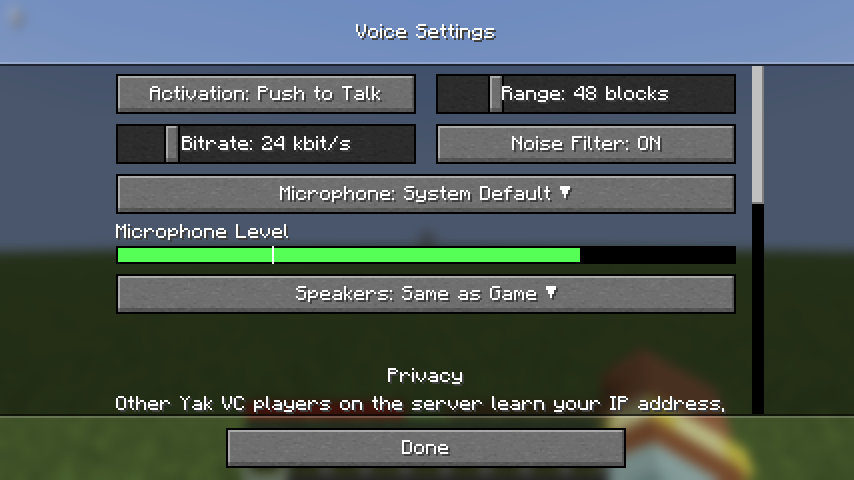
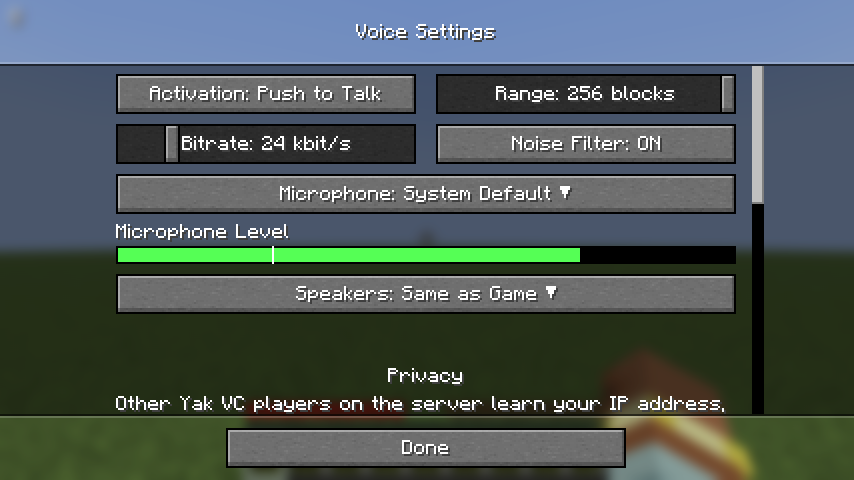
Default to a steeper fade over a 256-block range
The maintainer tuned this by ear in game: with a 0.6 rolloff over 48
blocks distance was barely audible until the very edge. A rolloff of 3
over 256 blocks falls off clearly while voices still carry far.

Changed region(s): [[0.548, 0.1562, 0.7916, 0.25], [0.822, 0.1562, 0.8829, 0.25]]

diff --git a/crates/yakvc-testkit/tests/m3.rs b/crates/yakvc-testkit/tests/m3.rs
@@ -140,13 +140,13 @@ async fn gain_and_pan_follow_moves() {
         "ahead: {near_l} vs {near_r}"
     );
 
-    // At 30 blocks the gain is about 1 - 26/44 = 0.41.
+    // At 30 blocks the gain is about (226/252)^3 = 0.72.
     alice.move_to(at(0.0, 30.0));
     sleep(SETTLE).await;
     let (far_l, _) = levels(&listen(&bob, Duration::from_secs(1)).await);
     assert!(far_l > 0.0, "still audible at 30 blocks");
     assert!(
-        (0.25..0.6).contains(&(far_l / near_l)),
+        (0.55..0.9).contains(&(far_l / near_l)),
         "gain at 30 blocks: {}",
         far_l / near_l
     );
@@ -282,7 +282,7 @@ async fn the_shorter_voice_range_wins() {
         .config(|c| c.voice_range = 20.0)
         .start()
         .await;
-    // bob keeps the default 48-block range.
+    // bob keeps the default 256-block range.
     let mut bob = net.client().name("bob").tone(660.0).start().await;
     alice.move_to(at(0.0, 0.0));
     bob.move_to(at(18.0, 0.0));
@@ -373,7 +373,7 @@ async fn voice_stops_at_range_and_without_a_tracked_entity() {
     connect(&mut alice, &mut bob, PeerState::Direct).await;
     alice.talk(true);
 
-    // Inside the default 48-block range, quiet but audible.
+    // Inside the default 256-block range, quiet but audible.
     sleep(SETTLE).await;
     assert!(!is_silent(&listen(&bob, Duration::from_secs(1)).await));
 

diff --git a/mod/src/main/java/io/github/desocketed/yakvc/config/ClientConfig.java b/mod/src/main/java/io/github/desocketed/yakvc/config/ClientConfig.java
@@ -62,7 +62,7 @@ public record ClientConfig(String toml) {
 
 	/** Blocks; the engine's default when unset. */
 	public double voiceRange() {
-		return number(value("", "voice_range"), 48);
+		return number(value("", "voice_range"), 256);
 	}
 
 	/** A number from the {@code [acoustics]} section, or {@code fallback} when unset. */
@@ -240,7 +240,7 @@ public record ClientConfig(String toml) {
 			# [rendezvous] table apply on the next game start, everything else at once.
 
 			# Voice range in blocks (1 to 256). Between two players the shorter range applies.
-			voice_range = 48.0
+			voice_range = 256.0
 
 			# Never use direct connections: all voice goes through the relay, so peers don't learn your IP address.
 			relay_only = false

diff --git a/mod/src/main/java/io/github/desocketed/yakvc/ui/SoundTuningScreen.java b/mod/src/main/java/io/github/desocketed/yakvc/ui/SoundTuningScreen.java
@@ -42,7 +42,7 @@ public final class SoundTuningScreen extends OptionsSubScreen {
 		SoundTuning mod = SoundTuning.DEFAULT;
 		// The engine's keys fall back to its own defaults (AcousticsConfig); the mod's to SoundTuning's.
 		slider("full_volume_distance", 0, 32, 1, 4, SoundTuningScreen::blocks);
-		slider("distance_rolloff", 10, 300, 0.01, 0.6, value -> label("times", "%.2f", value));
+		slider("distance_rolloff", 10, 400, 0.01, 3, value -> label("times", "%.2f", value));
 		slider("occlusion_attenuation", 0, 100, 0.01, 0.75, SoundTuningScreen::percent);
 		slider("muffled_cutoff_hz", 2, 80, 50, 600, value -> label("hertz", "%.0f", value));
 		slider("path_bend", 0, 100, 0.01, mod.pathBend(), SoundTuningScreen::percent);

diff --git a/crates/yakvc-client/src/config.rs b/crates/yakvc-client/src/config.rs
@@ -108,7 +108,7 @@ impl Default for AcousticsConfig {
     fn default() -> Self {
         AcousticsConfig {
             full_volume_distance: 4.0,
-            distance_rolloff: 0.6,
+            distance_rolloff: 3.0,
             occlusion_attenuation: 0.75,
             muffled_cutoff_hz: 600.0,
             reverb_level: 0.85,
@@ -264,7 +264,7 @@ impl Default for Config {
             dev_mode: false,
             verified_only: false,
             relay_only: false,
-            voice_range: 48.0,
+            voice_range: 256.0,
             friends_only: None,
             invites: InvitesFrom::Everyone,
             audio: AudioConfig::default(),

diff --git a/crates/yakvc-client/src/voice/rules.rs b/crates/yakvc-client/src/voice/rules.rs
@@ -499,14 +499,14 @@ mod tests {
         assert_eq!(gain(48.0), Some(0.0));
         assert_eq!(gain(48.1), None);
 
-        // A gentler rolloff keeps distant voices louder.
-        let gentle = spatial(
+        // The default, steeper rolloff drops distant voices sooner.
+        let steep = spatial(
             &listener(0.0),
             at(0.0, 40.0),
             48.0,
             &AcousticsConfig::default(),
         );
-        assert!(gentle.unwrap().gain > gain(40.0).unwrap() * 1.5);
+        assert!(steep.unwrap().gain < gain(40.0).unwrap() * 0.5);
     }
 
     #[test]

diff --git a/crates/yakvc-testkit/tests/voice_sink.rs b/crates/yakvc-testkit/tests/voice_sink.rs
@@ -158,7 +158,7 @@ async fn a_sink_gets_nearby_voice_instead_of_the_speakers() {
     let got = voice_from(&recorder, alice.uuid()).await;
     assert_eq!(got.samples, 960);
     assert!(got.positioned && !got.group, "{got:?}");
-    assert_eq!(got.range, 48.0);
+    assert_eq!(got.range, 256.0);
     assert_eq!(got.volume, 1.0);
     // Nothing in the way: heard from where alice stands, as the speakers would,
     // once bob's world has her there (her first frames can beat her move).

diff --git a/mod/src/test/java/io/github/desocketed/yakvc/config/ClientConfigTest.java b/mod/src/test/java/io/github/desocketed/yakvc/config/ClientConfigTest.java
@@ -55,7 +55,7 @@ class ClientConfigTest {
 		assertTrue(config.muteBlockedPlayers(), "keys in tables are not top-level");
 		assertEquals("Mic \"USB\" # 2", config.inputDevice());
 		assertEquals("C:\\Speakers", config.outputDevice());
-		assertEquals(48, config.voiceRange(), "the engine's default when unset");
+		assertEquals(256, config.voiceRange(), "the engine's default when unset");
 	}
 
 	@Test

diff --git a/docs/DESIGN.md b/docs/DESIGN.md
@@ -255,7 +255,7 @@ Voice is 48 kHz mono Opus in 20 ms frames, sent as unreliable QUIC datagrams on 
 | Sample rate / channels | 48 kHz, mono capture; stereo output |
 | Frame | 20 ms (960 samples) |
 | Codec | Opus, `VOIP` application, 24 kbps (16–64), in-band FEC on, DTX on |
-| Voice range | 48 blocks; full volume within 4 blocks. Per player; between two players the shorter range applies |
+| Voice range | 256 blocks (the most allowed); full volume within 4 blocks. Per player; between two players the shorter range applies |
 | Jitter buffer | adaptive, target 40 ms (a floor), bounds 20–200 ms. Delay is the 95th-percentile jitter over the last 100 packets plus 20 ms; it grows at once and shrinks only between talk spurts. Clock drift is corrected by stretching or skipping one frame |
 | Activation | push-to-talk (default) or VAD with 300 ms hangover |
 
@@ -270,7 +270,7 @@ Voice is 48 kHz mono Opus in 20 ms frames, sent as unreliable QUIC datagrams on 
 
 1. Datagrams from unverified connections are dropped. Verified ones go into a per-peer jitter buffer. Playout is timed by `ts`, which advances 960 per captured frame; `seq` advances only per packet sent, so a `seq` gap means loss and a `ts`-only gap means DTX silence.
 2. A mixer thread pulls one frame per peer every 20 ms: decode, use Opus FEC if the next packet is present, else PLC, and reset the stream after `end_of_talk`. A peer counts as talking (the `Talking` event, for the indicators) only while frames decoding above −70 dBFS play, with a 200 ms hangover. Quieter frames still play but don't count: while push-to-talk is held over silence, DTX sends a comfort-noise packet about every 400 ms, and each would otherwise flash the indicator. Comfort noise decodes below −85 dBFS at every bitrate and speech near −18 dBFS; packet size can't tell them apart, because at 16 kbps comfort-noise packets (14–18 B) overlap quiet speech (21 B and up) (#113).
-3. **Spatialization:** Java pushes the listener pose (position, yaw, pitch) and positions of tracked players by UUID every tick (20 Hz). The mixer plays one snapshot behind and interpolates positions and yaw between the last two (yaw the short way round), which adds 50 ms of position latency; after a gap of more than 250 ms it snaps instead. Players whose tab-list game mode is spectator are left out of this set. Vanilla already does most of this: the server never sends a spectator's player entity to non-spectators (`ServerPlayer.broadcastToPlayer`, checked in the 26.3 jar). It does send other players to a spectator (unless the spectator is viewing through another entity), and plugins can change what is tracked, so entity tracking alone isn't enough. Filtering by game mode means the "no tracked entity" rule below covers spectators in both directions. While the local player is a spectator, the engine neither sends nor plays audio. Gain = 1 within 4 blocks, falling to 0 at the voice range along a curve (the remaining share of the range to the power 0.6 by default, so distant voices carry; 1 would be a straight line). Equal-power stereo pan from azimuth relative to listener yaw, with mild attenuation for sources behind the listener.
+3. **Spatialization:** Java pushes the listener pose (position, yaw, pitch) and positions of tracked players by UUID every tick (20 Hz). The mixer plays one snapshot behind and interpolates positions and yaw between the last two (yaw the short way round), which adds 50 ms of position latency; after a gap of more than 250 ms it snaps instead. Players whose tab-list game mode is spectator are left out of this set. Vanilla already does most of this: the server never sends a spectator's player entity to non-spectators (`ServerPlayer.broadcastToPlayer`, checked in the 26.3 jar). It does send other players to a spectator (unless the spectator is viewing through another entity), and plugins can change what is tracked, so entity tracking alone isn't enough. Filtering by game mode means the "no tracked entity" rule below covers spectators in both directions. While the local player is a spectator, the engine neither sends nor plays audio. Gain = 1 within 4 blocks, falling to 0 at the voice range along a curve (the remaining share of the range to the power 3 by default, tuned by ear: a wide range that still falls off clearly with distance, about −6 dB by 56 blocks and −20 dB by 140; 1 would be a straight line). Equal-power stereo pan from azimuth relative to listener yaw, with mild attenuation for sources behind the listener.
 4. **Occlusion:** for each tracked player Java also sends an occlusion from 0 (open air) to 1 (fully blocked), interpolated like positions. A fully occluded voice is 75 % quieter and muffled by a per-source low-pass (two one-pole stages; the cutoff moves geometrically from 20 kHz to a tunable 600 Hz with the square root of the occlusion, so half occluded already cuts above about 1.7 kHz, and glides across each frame so changes don't click). The estimate lives in Java (`Occlusion`), because only the game has the blocks: for now one ray from listener to speaker eye. Each block whose collision shape the ray crosses (so an open door or gate doesn't count) lets through a share of what reaches it by material: half for ordinary solid blocks, 15 % for wool and carpet, 70 % for glass, 85 % for leaves, and 80 % per block of fluid. It is the first step towards sound that follows the world; later estimates (block materials, room reverb, paths around walls) replace it without changing the engine, or add parameters beside it. **Paths around walls:** when the direct path is blocked, Java (`SoundPath`) also searches for a way round: the shortest path of open blocks (whose middle is free, so open doors and slabs count, fence posts don't; anything with an `open` property must be open, since a closed door's middle is free too), breadth-first between face neighbours within a box 8 blocks beyond both players, visiting at most 4096 blocks. Going round always costs 0.4 for bending round an edge, plus 1/24 per block of extra length; whichever of through and round loses less wins. Round, the voice is heard from the direction of the opening (the furthest point along the way still in plain view of the listener), as far away as the way is long, so `heard_x, heard_y, heard_z` follow each player's position in the world push and set gain and pan, while range and recipients still use the real position. The direct check runs every tick; each occluded player's search runs every 10 ticks, staggered, and is reused between. **Room reverb and echo:** the listener push also carries the room around the listener, measured like a real one with a block as a metre (`Room` in Java): how walled in it is, its critical distance, its decay time, an echo level and an echo delay. Each tick Java casts 48 rays evenly in every direction, up to the room reach (64 blocks by default). Each ray stands for an equal cone of the room (4π/48 of solid angle), so together they give its volume (Σ r³/3 per cone), its surface (Σ r² per cone, more where the ray meets the surface at a slant, at most four times) and the surface's mean absorption, from the block each ray hits, told apart by its sound type and tags: stone, deepslate, bricks and the like 0.02, glass 0.03, wood 0.1, grass, dirt, sand and gravel 0.15, wool, carpet and snow 0.5, leaves 0.6, anything else 0.05. A ray that hits nothing looks into open air, a surface at the reach that absorbs everything. Every surface also gets a furnishing absorption (0.12 by default) for the furniture, clutter and players a bare block room lacks, without which a stone box rings far longer than any real room. Eyring's formula, T60 = 0.161 V / (−S ln(1 − α) + 4mV), with air absorption m = 0.0025 per metre, gives the decay (Sabine's formula overestimates it in dead rooms; in live ones the two agree), at most 6 s by default. The critical distance, r_c = 0.057 √(Q V / T60) with a voice's directivity Q = 2, is where a voice's reverb is as loud as the voice itself: in the engine each voice sends d / √(d² + r_c²) of itself to the reverb, d being the way it comes, so a nearby talker is mostly dry and a far one mostly room. Rays aimed steeply down only see the floor and don't count towards how walled in the space is: the share of the other rays that hit, to the power 1.5, scales every send, so open ground stays dry while a canyon, a cave or a hall rings. The room's single echo comes from the surfaces that face the listener (met within 60° of head on) between 8.5 m (a round trip of about 50 ms) and 17 m away, fading in over the first 4 m; it is quieter the further it travels (1/r), the more the walls absorb and the fewer face the listener. Its delay is the time sound takes to those walls and back (at most 0.45 s). With the defaults, the test world's 7 × 4 × 7 stone room rings for about 0.9 s with a critical distance of 1.2 m and no echo, its 19 × 11 × 19 hall about 2.5 s (r_c 3.2 m) with a faint echo, and its 48 × 24 × 48 cavern about 5 s (r_c 8.3 m), whose walls are far enough to echo apart instead. Each tick the room moves 15 % of the way to the new estimate, so a doorway is crossed smoothly. Every positional voice sends its share to one shared reverb in the mixer (Freeverb's structure trimmed to four damped combs and two all-passes per channel, the right channel's delays longer for width), started after half the echo delay so a big space has a moment of quiet before it rings, and to one echo line (a damped feedback delay, the right channel 11 ms later); group voice stays dry. It describes only the listener's side: a voice from another room rings with the listener's room. **Far echoes:** walls and cliffs more than 17 m away each send back their own distinct echo, the "hello… hello…" of a valley, which no diffuse reverb gives (`FarEchoes` in Java). Long rays, up to the echo reach (200 blocks by default), go out 6 a tick through 128 evenly spread directions, so the whole picture is refreshed about every 1.1 s without a full sweep in any tick. Each hit is kept as a point and a face normal in the world, so distances and angles stay right while the listener moves; unloaded chunks hold no blocks, so a ray finds nothing there. Hits facing the listener (within 60° of head on) and at least 17 m away (a round trip of 100 ms) are grouped into walls: hits within 40° of each other in direction and 25 % in distance, most head-on first. Each wall echoes from its most head-on hit, near where it mirrors the voice back. The 4 strongest walls are kept, strength being the share of rays the wall fills × √(1 − α) / d. A tap's delay is the round trip 2d / 343 (at most 1.5 s); its gain is spherical spreading over the way it travels, 0.5 × 8.5 / d (as loud as the room's echo off a hard wall 8.5 m away, quieter as 1/(2d) beyond), times the reflected √(1 − α), times how broad the wall is (full from 3 rays, so a lone pillar echoes less); and air dulls it with a one-pole low-pass at 480 000 / (30 + 2d) Hz. The test world's canyon (stone cliffs 70 blocks apart, 30 tall and 80 long) gives, from the middle, two echoes after about 0.20 s, one from each side, each at a gain of about 0.12 and darkened above about 4.8 kHz. The listener push carries the 4 taps as a world direction, delay, gain and cutoff; the engine pans each from the listener's facing every frame, so they turn with the head. In the mixer every positional voice, after its distance gain, occlusion and muffle, feeds one shared 1.5 s delay line read by the 4 taps (group voice and direct calls don't echo); each tap is low-passed and panned on its own and plays once, with no feedback. Gains ramp across each frame and a changed delay crossfades from the old one over the frame, so walls coming and going and turning never click, and nothing allocates on the audio thread. The split at 17 m means no wall echoes twice: nearer ones are the room's, with its repeats, further ones are far echoes. **Tuning:** an `[acoustics]` section in `client.toml` holds every number here, and the Sound Tuning screen (from the settings' Developer section) edits it live: the engine's keys (`full_volume_distance`, `distance_rolloff`, `occlusion_attenuation`, `muffled_cutoff_hz`, `reverb_level`, `reverb_damping`, `echo_feedback`, `echo_level`, in `AcousticsConfig`) and the mod's (`furnishing`, `max_decay`, `room_reach`, `echo_reach`, `path_bend`, `path_per_block`, in `SoundTuning`), each side ignoring the other's.
 
 5. **Range is enforced by the receiver:** if the speaker has no tracked entity (out of tracking range, other backend, vanished) or is beyond range, the frame is discarded. The sender-side filter only saves bandwidth. Range is a per-player setting, and the sender filters by its own range while the receiver filters by its own, so between two players the shorter range applies. A listener can never hear further than the speaker allows. The settings screen says so next to the range slider.

diff --git a/docs/USER_GUIDE.md b/docs/USER_GUIDE.md
@@ -139,7 +139,7 @@ Open the settings from **Options → Music & Sounds → Voice Chat…**, at the 
 ![The voice settings](guide/voice-settings.png)
 
 - **Activation**: *Push to Talk* sends your voice only while you hold the key. *Voice* sends it whenever the microphone hears you speak.
-- **Range**: how far away players can hear you and you can hear them, from 1 to 256 blocks (48 by default). Between two players, the shorter of their ranges applies.
+- **Range**: how far away players can hear you and you can hear them, from 1 to 256 blocks (256 by default). Between two players, the shorter of their ranges applies.
 - **Bitrate**: the sound quality of your voice, from 16 to 64 kbit/s. Higher sounds better and uses more data; 24 kbit/s is plenty for speech.
 - **Noise Filter**: filters fans, hum and room noise out of your microphone. On by default; turn it off if it makes your voice sound choppy or robotic, or if your microphone is already clean.
 - **Microphone**: which microphone to use. Click it for a list of your microphones and pick one; scroll the list if it is long. *System Default* follows your system's setting.
@@ -246,7 +246,7 @@ The keys that the settings screen shows:
 
 | Key | Default | Setting |
 | --- | --- | --- |
-| `voice_range` | `48.0` | Range |
+| `voice_range` | `256.0` | Range |
 | `relay_only` | `false` | Relay Only |
 | `respect_chat_restrictions` | `true` | Obey Chat Limits |
 | `mute_blocked_players` | `true` | Mute Blocked |
